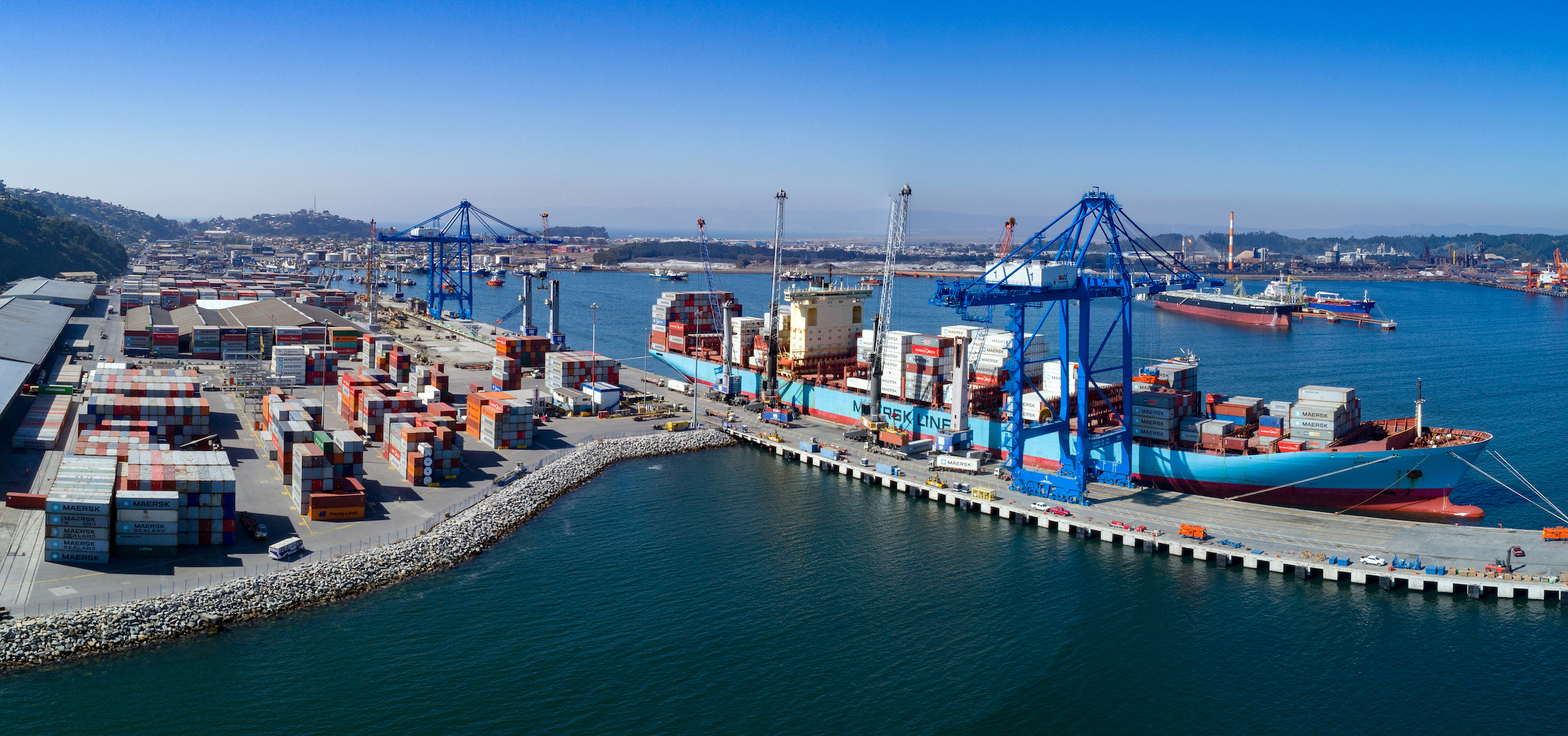
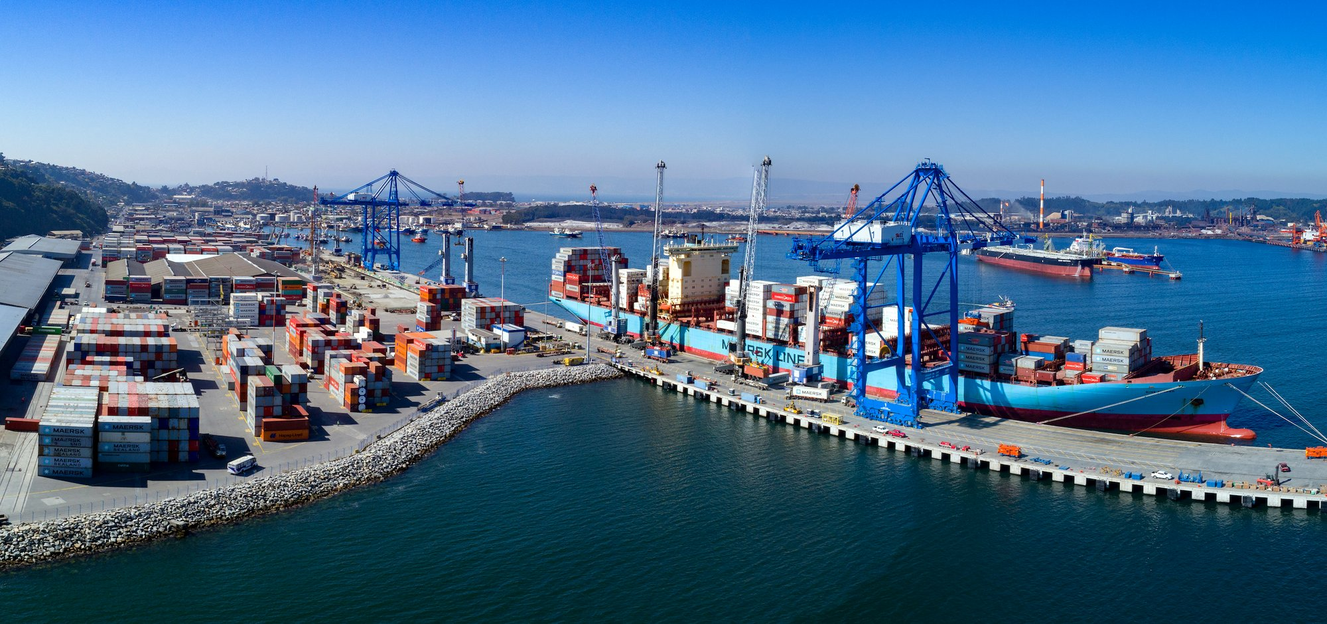
Add files via upload

diff --git a/css/styles.css b/css/styles.css
@@ -1009,20 +1009,24 @@ button {
   grid-template-columns: 1fr;
   gap: var(--space-lg);
   margin-bottom: var(--space-2xl);
-  align-items: stretch;
+  align-items: start; /* Cada item respeta su altura natural, sin estirarse */
 }
 
 .port-feature__image {
   position: relative;
   overflow: hidden;
   background: var(--gray-100);
-  aspect-ratio: 16 / 10;
+  aspect-ratio: 2 / 1; /* Panorámico - perfecto para foto del puerto */
+  min-width: 0; /* CRÍTICO: previene overflow en CSS Grid */
+  width: 100%;
+  max-width: 100%;
 }
 
 .port-feature__image img {
   width: 100%;
   height: 100%;
   object-fit: cover;
+  display: block;
   transition: transform var(--transition-slow);
   filter: contrast(1.05) saturate(1.05);
 }
@@ -1055,8 +1059,11 @@ button {
 .port-feature__info {
   display: flex;
   flex-direction: column;
-  justify-content: center;
+  justify-content: flex-start;
   padding: var(--space-md) 0;
+  min-width: 0; /* CRÍTICO: previene overflow en CSS Grid */
+  width: 100%;
+  max-width: 100%;
 }
 
 .port-feature__title {
@@ -1116,6 +1123,56 @@ button {
   font-weight: 600;
   color: var(--black);
   letter-spacing: -0.01em;
+}
+
+/* ===================== FLEET GALLERY — Fotos reales de la flota ===================== */
+.fleet-gallery {
+  margin-bottom: var(--space-2xl);
+  padding-top: var(--space-xl);
+  border-top: 1px solid var(--gray-100);
+}
+
+.fleet-gallery__title {
+  font-family: var(--font-display);
+  font-size: clamp(1.5rem, 2.5vw, 2rem);
+  font-weight: 700;
+  line-height: 1.15;
+  letter-spacing: -0.02em;
+  color: var(--black);
+  margin-bottom: 0.5rem;
+}
+
+.fleet-gallery__lead {
+  font-size: 1rem;
+  color: var(--gray-700);
+  margin-bottom: var(--space-lg);
+  max-width: 56ch;
+}
+
+.fleet-gallery__grid {
+  display: grid;
+  grid-template-columns: 1fr;
+  gap: var(--space-sm);
+}
+
+.fleet-photo {
+  position: relative;
+  overflow: hidden;
+  background: var(--gray-100);
+  aspect-ratio: 16 / 9;
+}
+
+.fleet-photo img {
+  width: 100%;
+  height: 100%;
+  object-fit: cover;
+  display: block;
+  transition: transform var(--transition-slow);
+  filter: contrast(1.05) saturate(1.02);
+}
+
+.fleet-photo:hover img {
+  transform: scale(1.04);
 }
 
 /* Ports section dentro de Talcahuano */
@@ -1495,8 +1552,15 @@ button {
 
   /* Port Feature — desktop layout */
   .port-feature {
-    grid-template-columns: 1.4fr 1fr;
+    grid-template-columns: 1.3fr 1fr;
     gap: var(--space-xl);
+    align-items: start;
+  }
+
+  /* Fleet Gallery — 2 columns en desktop */
+  .fleet-gallery__grid {
+    grid-template-columns: 1fr 1fr;
+    gap: var(--space-md);
   }
 
   .site-footer__grid {

diff --git a/index.html b/index.html
@@ -401,7 +401,12 @@
         <!-- Imagen destacada del Puerto + datos clave -->
         <div class="port-feature">
           <figure class="port-feature__image">
-            <img src="assets/images/puerto-san-vicente.jpg" alt="Vista aérea del Puerto San Vicente con grúas portuarias, contenedores y barco MAERSK atracado" loading="lazy">
+            <img
+              src="assets/images/puerto-san-vicente.jpg"
+              srcset="assets/images/puerto-san-vicente-medium.jpg 1400w, assets/images/puerto-san-vicente.jpg 2000w"
+              sizes="(max-width: 767px) 100vw, 60vw"
+              alt="Vista aérea panorámica del Puerto San Vicente con barco MAERSK LINE atracado, grúas portuarias azules y patio de contenedores en Talcahuano"
+              loading="lazy">
             <figcaption>
               <span class="port-feature__tag">Puerto San Vicente · Talcahuano</span>
             </figcaption>
@@ -428,6 +433,22 @@
               </div>
             </dl>
           </aside>
+        </div>
+
+        <!-- Galería complementaria con fotos reales -->
+        <div class="fleet-gallery">
+          <h3 class="fleet-gallery__title">La flota en operación</h3>
+          <p class="fleet-gallery__lead">Nuestros camiones Mercedes-Benz operando en el puerto, todos los días.</p>
+
+          <div class="fleet-gallery__grid">
+            <figure class="fleet-photo">
+              <img src="assets/images/camiones-frontal-medium.jpg" alt="Tres camiones Mercedes-Benz de VIDISA vistos de frente en el puerto" loading="lazy">
+            </figure>
+
+            <figure class="fleet-photo">
+              <img src="assets/images/operacion-puerto-medium.jpg" alt="Flota VIDISA junto a contenedores apilados en el puerto" loading="lazy">
+            </figure>
+          </div>
         </div>
 
         <!-- Puertos de cobertura -->
